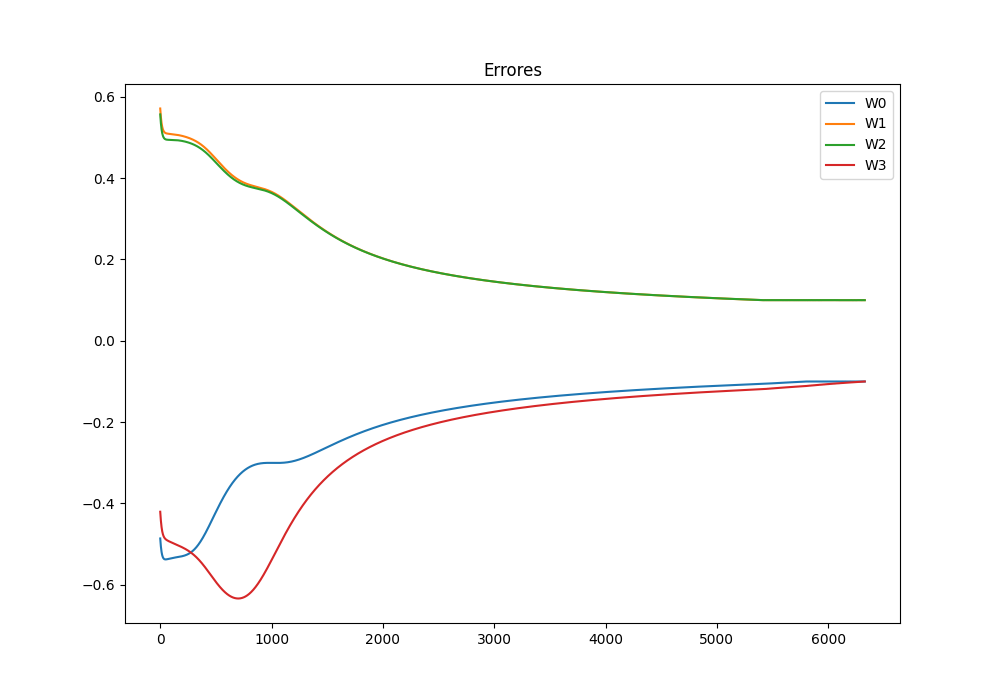
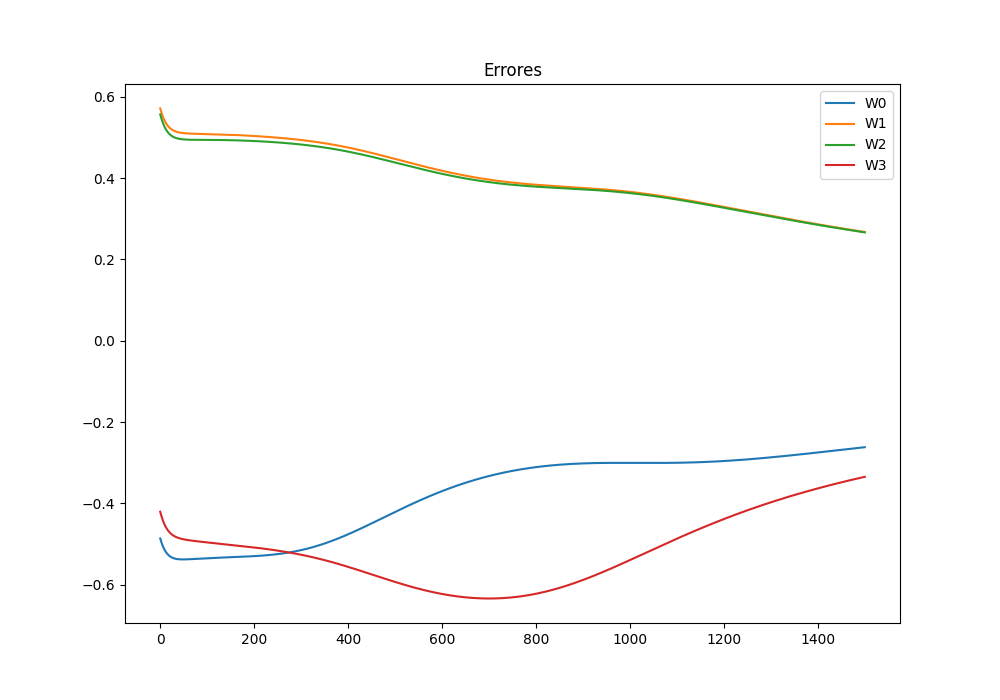
fotos tp5

diff --git a/ej4/ml_perceptron.py b/ej4/ml_perceptron.py
@@ -52,25 +52,6 @@ def corregir_pesos(list_salida, pesos, salida_deseada, list_perceptrones, histor
             return False
     return True
 
-# def asignar_pesos(cant_entrada,list_entrada,cant_oculta,list_oculta,cant_salida,list_salida, pesos):
-#     pos_peso = 0
-#     for p in range(cant_entrada):
-#         list_entrada[p].pesos.clear()
-#         for i in range(cant_entrada + 1):
-#             list_entrada[p].pesos.append(pesos[pos_peso])
-#             pos_peso = pos_peso + 1
-#     for p in range(cant_oculta):
-#         list_oculta[p].pesos.clear()
-#         for i in range(cant_entrada + 1):
-#             list_oculta[p].pesos.append(pesos[pos_peso])
-#             pos_peso = pos_peso + 1
-#     for p in range(cant_salida):
-#         list_salida[p].pesos.clear()
-#         for i in range(cant_oculta + 1):
-#             list_salida[p].pesos.append(pesos[pos_peso])
-#             pos_peso = pos_peso + 1
-
-
 def main():
 
     entradas = 2
@@ -118,7 +99,9 @@ def main():
     for i in range(len(pesos)):
         print("\tw%d: %f" % (i, pesos[i]))
     corregir = True
-    while corregir:
+    count = 0
+    while count<=1500:
+        count += 1
         # input("Enter para continuar...")
         error = []
         for linea in tabla_xor:
